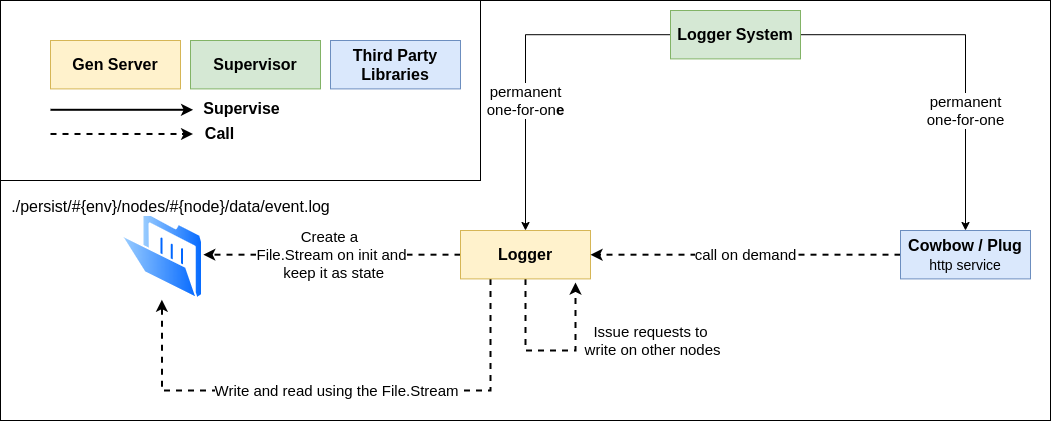
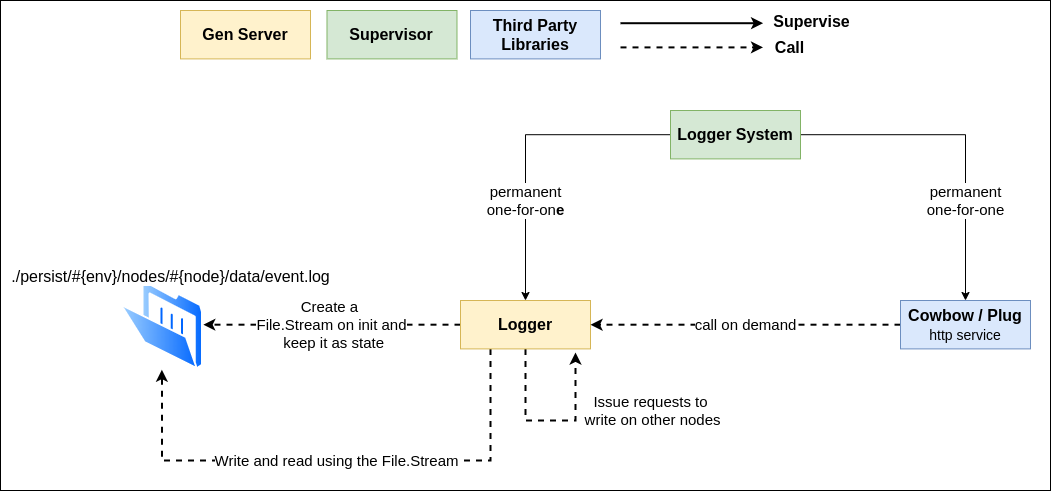
add docs for system overview

diff --git a/system_overview.md b/system_overview.md
@@ -27,7 +27,7 @@ You have 2 ways to run the system:
 
 2 - `bash ./scripts/run.sh` script inside the project's folder to start 3 fully connected nodes running on the ports 5555, 5556 and 5557
 
-### IEX
+### Iex
 
 If you want to run the system via iex you can run the following command (#{xxx} must be replaced):
 
@@ -61,7 +61,7 @@ If you dont want to run with iex you can run the shell script inside the project
 
 To interact with the system you can go either by terminal (only if you have chosen the IEX approach on the previous section) using the `DistributedLogger` module or using http requests (avaiable for both, IEX and shell script) to the listening ports of the nodes.
 
-### IEX
+### Iex
 
 Via terminal you have 3 main functions to interact with:
 
@@ -99,17 +99,6 @@ Each event is in one line and the unix timestamp is added to the data
 
 Since the system is distributed errors may occur leading to inconsistency between nodes. Because of this you have the `DistributedLogger.generate_consolidated_file/2` function.
 
-It implements a very simple algorithm to consolidate multiple log files. It relies on the fact that each log starts with a utc unix timestamp and that each server will at least be able to save the log on it's own file.
-
-The algorithm steps:
-
-```elixir
-retrieve_lines_from_each_node()
-|> select_only_unique_lines()
-|> sort()
-|> save_on_consolidate_file()
-```
-
 You can run this function either in a already running system using the terminal or if you started the application as daemons via the shell script you can connect a new iex terminal to your already running daemon nodes using the following code inside the project's folder:
 
 `iex --name node4@127.0.0.1 --erl "-distributed_logger port 5558 -distributed_logger nodes [node1,node2,node3]" -S mix`
@@ -118,11 +107,43 @@ And run the `DistributedLogger.generate_consolidated_file/2` to generate the fil
 
 ## System Overview
 
-WIP
+The system is quite simple, the main module is `DistributedLogger` which runs the gen_server, makes multicalls to other nodes and generate the consolidated version of the logs. Http requests are handled by the Cowboy library using Plug!
 
 ![](./assets/exdocs_assets/node-diagram.png)
+
+### GenServer
+
+The `DistributedLogger` genserver holds a `File.Stream` as its state, which is used on the message callbacks to read and write data on the file!
+
+The server acepts basicallly 2 types of requests, read local and write local. Note that the server only handles local file management, it do not know about other nodes running different logs.
+
+- init: Creates the file if it dont exists and open the stream
+
+- write_local: Uses the file stream to append on the file
+
+- read_local: Uses the file stream to read lines from the file
+
+### Multicall
+
+To save the data on multiple nodes the node from where you are calling `DistributedLogger.write_global/1`. Note that this code did not run inside the server, it actually runs on the client process, cowboy processes if tou are interacting via http or the iex process itself if you are interacting via terminal.
+
+To achieve this goal the system uses the `:rpc.multicall/5` function from the erlang library!
+
 ![](./assets/exdocs_assets/cluster-diagram.png)
 
-## Design Choices
+### Consolidate File
 
-WIP
+This functionality is implemented inside `DistributedLogger.generate_consolidated_file/2`, it receives initial and final line as parameter so you can select a chunk of the files to consolidate, but remenber this isn't safe, which means that when you use a `initial_line > 0` or a `final_line < last line` the algorithm can not guarantee the consistency. It guarantees consistency only on full file consolidations.
+
+It implements a very simple algorithm to consolidate multiple log files. It relies on the fact that each log starts with a utc unix timestamp and that each server will at least be able to save the log on it's own file.
+
+The algorithm steps are as following:
+
+```elixir
+retrieve_lines_from_each_node()
+|> select_only_unique_lines()
+|> sort()
+|> save_on_consolidate_file()
+```
+
+## Design Choices
